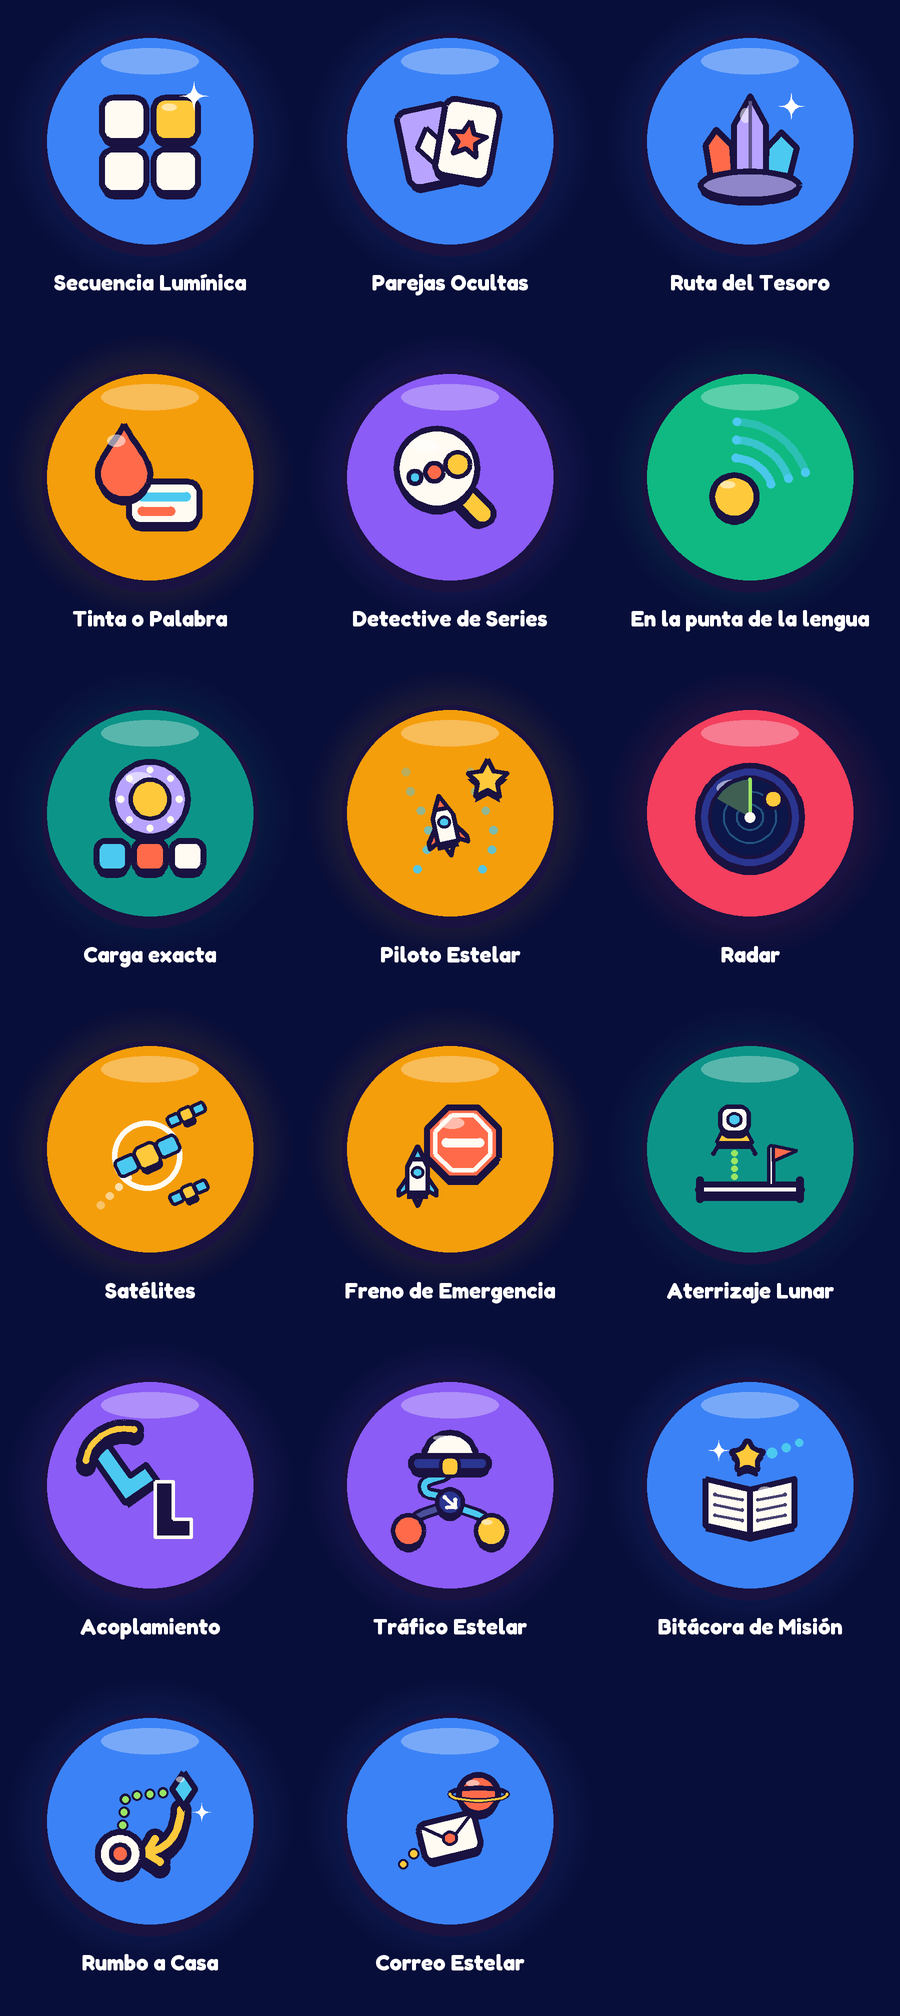
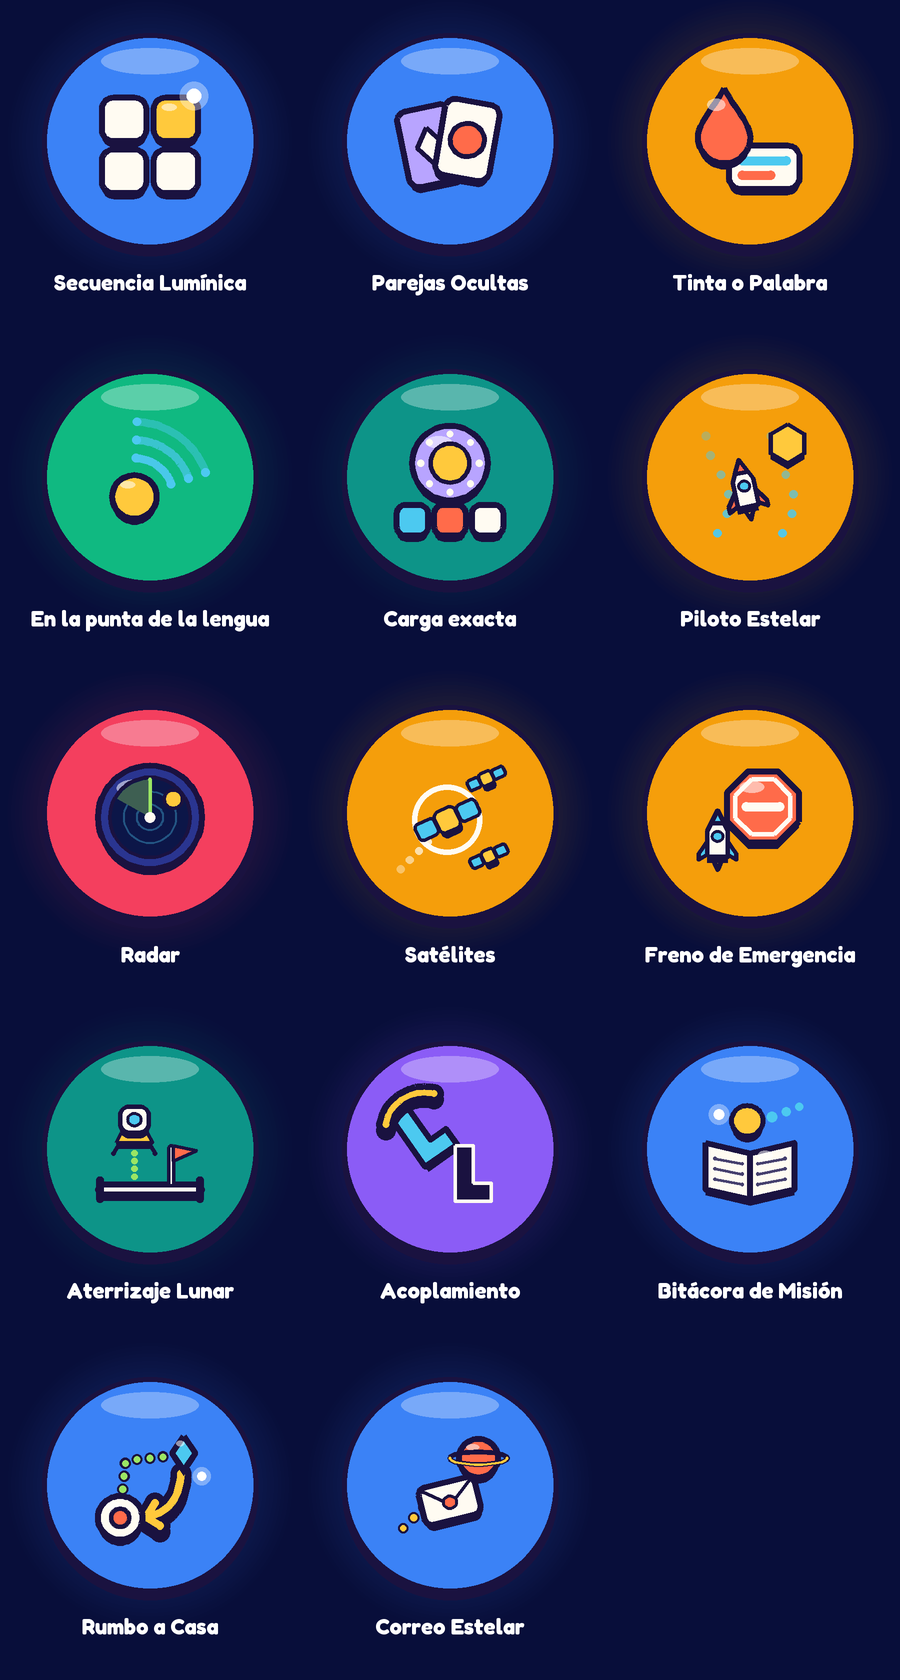
Premios y calificaciones con luceros redondos: resultado, escudo de liga, celebraciones y primer lucero (tarea 36)
ResultStar, el escudo de liga, los destellos de ascenso y logros, el brillo de Nubi y de la tarjeta de compartir pasan a ser redondos; la «primera estrella»
del Primer vuelo es «tu primer lucero». Réplica de íconos actualizada y sin juegos retirados.

diff --git a/app/src/main/java/com/example/games/GameResultScreen.kt b/app/src/main/java/com/example/games/GameResultScreen.kt
@@ -112,8 +112,8 @@ private val TextSoft = Color(0xFFB4BFEA) // secundario sobre el cielo nocturno (
  * nocturno de la app (`CosmosBackground`, visible porque el fondo del tema es transparente), sin tarjetas: la
  * información es texto suelto y objetos, lo tocable es arcilla.
  *
- * Un solo protagonista animado: el puntaje cuenta hasta su valor, luego aparecen las estrellas con rebote y, si
- * te fue bien (2-3 estrellas), una lluvia de destellos. Con "quitar animaciones" del sistema todo aparece quieto.
+ * Un solo protagonista animado: el puntaje cuenta hasta su valor, luego aparecen los luceros con rebote y, si
+ * te fue bien (2-3 luceros), una lluvia de destellos. Con "quitar animaciones" del sistema todo aparece quieto.
  * Atrás = Continuar (comportamiento predecible). Sin promesas de salud en los textos.
  */
 @Composable
@@ -196,7 +196,7 @@ fun GameResultScreen(
       }
     }
 
-    // Protagonista: halo del dominio, destellos, estrellas y el puntaje gigante de arcilla.
+    // Protagonista: halo del dominio, destellos, luceros y el puntaje gigante de arcilla.
     Box(
       modifier = Modifier
         .fillMaxWidth()
@@ -1229,37 +1229,28 @@ private fun ClayNumber(text: String, color: Color, fontSize: TextUnit) {
   }
 }
 
-/** Estrella de 5 puntas de arcilla: sol con borde tinta si se ganó, contorno tenue si no. */
+/** Lucero REDONDO de arcilla (la «estrella» ganada, 4-oct: nada de estrellas con puntas): sol con borde tinta si se ganó, contorno tenue si no. */
 @Composable
 private fun ResultStar(earned: Boolean, modifier: Modifier = Modifier) {
   Canvas(modifier) {
-    val path = starPath(size.width / 2f, size.height / 2f, size.minDimension * 0.48f, size.minDimension * 0.21f, 5)
+    val center = Offset(size.width / 2f, size.height / 2f)
+    val r = size.minDimension * 0.40f
     if (earned) {
-      drawPath(path, Clay.Ink, style = Stroke(width = size.minDimension * 0.12f, join = StrokeJoin.Round))
-      drawPath(path, Clay.Sun)
+      drawCircle(Clay.Sun.copy(alpha = 0.28f), radius = r * 1.22f, center = center)
+      drawCircle(Clay.Ink, radius = r + size.minDimension * 0.06f, center = center)
+      drawCircle(Clay.Sun, radius = r, center = center)
       // Brillo arriba a la izquierda.
-      drawCircle(Color.White.copy(alpha = 0.55f), radius = size.minDimension * 0.07f, center = Offset(size.width * 0.40f, size.height * 0.36f))
+      drawCircle(Color.White.copy(alpha = 0.55f), radius = size.minDimension * 0.08f, center = Offset(size.width * 0.38f, size.height * 0.36f))
     } else {
-      drawPath(path, Color.White.copy(alpha = 0.10f))
-      drawPath(path, Color.White.copy(alpha = 0.30f), style = Stroke(width = size.minDimension * 0.05f, join = StrokeJoin.Round))
+      drawCircle(Color.White.copy(alpha = 0.10f), radius = r, center = center)
+      drawCircle(Color.White.copy(alpha = 0.30f), radius = r, center = center, style = Stroke(width = size.minDimension * 0.05f))
     }
   }
 }
 
-private fun starPath(cx: Float, cy: Float, outer: Float, inner: Float, points: Int): Path = Path().apply {
-  for (i in 0 until points * 2) {
-    val r = if (i % 2 == 0) outer else inner
-    val a = -PI / 2 + i * PI / points
-    val x = cx + (r * cos(a)).toFloat()
-    val y = cy + (r * sin(a)).toFloat()
-    if (i == 0) moveTo(x, y) else lineTo(x, y)
-  }
-  close()
-}
-
 private val BurstColors = listOf(Clay.Sun, Clay.Coral, Clay.Sky, Clay.Grape, Clay.Lime, Color.White)
 
-/** Lluvia de destellos de 4 puntas que salen del centro y se apagan (celebración de 2-3 estrellas). */
+/** Lluvia de destellos REDONDOS que salen del centro y se apagan (celebración de 2-3 luceros). */
 private fun DrawScope.drawBurst(center: Offset, progress: Float, reach: Float) {
   val rnd = Random(7)
   val fade = 1f - progress
@@ -1270,14 +1261,8 @@ private fun DrawScope.drawBurst(center: Offset, progress: Float, reach: Float) {
     val p = Offset(center.x + cos(angle) * d, center.y + sin(angle) * d)
     val s = (10f + rnd.nextFloat() * 16f) * (1f - progress * 0.5f)
     val color = BurstColors[i % BurstColors.size].copy(alpha = fade)
-    val sparkle = Path().apply {
-      moveTo(p.x, p.y - s); lineTo(p.x + s * 0.22f, p.y - s * 0.22f)
-      lineTo(p.x + s, p.y); lineTo(p.x + s * 0.22f, p.y + s * 0.22f)
-      lineTo(p.x, p.y + s); lineTo(p.x - s * 0.22f, p.y + s * 0.22f)
-      lineTo(p.x - s, p.y); lineTo(p.x - s * 0.22f, p.y - s * 0.22f)
-      close()
-    }
-    drawPath(sparkle, color)
+    drawCircle(color.copy(alpha = color.alpha * 0.35f), s * 0.9f, p)
+    drawCircle(color, s * 0.45f, p)
   }
 }
 

diff --git a/app/src/main/java/com/example/ui/screens/FirstFlightScreen.kt b/app/src/main/java/com/example/ui/screens/FirstFlightScreen.kt
@@ -573,7 +573,7 @@ private fun GameCardPage(index: Int, s: FlightState, a: FlightActions) {
 
 /**
  * «Tu punto de partida»: las 4 áreas con su etapa en palabras, «tu fuerte hoy» y «donde más vamos a jugar» (en TEXTO, no solo color), y,
- * la primera vez, la primera estrella de Nubi y el día 1 de la racha. «No es un examen».
+ * la primera vez, el primer lucero de Nubi y el día 1 de la racha. «No es un examen».
  */
 @Composable
 private fun StartingPointPage(s: FlightState, hi: String, a: FlightActions) {
@@ -598,7 +598,7 @@ private fun StartingPointPage(s: FlightState, hi: String, a: FlightActions) {
           Text("¡Empezó tu racha! Vuelve mañana para el día 2.", color = Color.White, fontFamily = AppFamily, fontWeight = FontWeight.SemiBold, fontSize = 18.sp, lineHeight = 24.sp, modifier = Modifier.weight(1f))
         }
       } else {
-        Sub("Cada partida hace nacer una estrella en el cielo de Nubi. Tu primera te espera en Hoy.")
+        Sub("Cada partida hace nacer un lucero en el cielo de Nubi. Tu primera te espera en Hoy.")
       }
     }
   }
@@ -625,7 +625,7 @@ private fun AreaLine(r: FirstFlight.AreaRow) {
 }
 
 /**
- * «Nace tu primera estrella»: Nubi celebra y la primera estrella aparece en su cielo (un rebote corto). Con «quitar animaciones» solo
+ * «Nace tu primer lucero»: Nubi celebra y el primer lucero aparece en su cielo (un rebote corto). Con «quitar animaciones» solo
  * se funde y queda quieta.
  */
 @Composable
@@ -649,27 +649,18 @@ private fun FirstStar() {
           .size(64.dp)
           .scale(grow.value.coerceAtLeast(0.01f))
           .alpha(fade.value)
-          .semantics { contentDescription = "Tu primera estrella" }
+          .semantics { contentDescription = "Tu primer lucero" }
       ) {
         val c = center
-        val outer = size.minDimension * 0.46f
-        val inner = outer * 0.46f
-        val star = Path().apply {
-          for (i in 0 until 10) {
-            val r = if (i % 2 == 0) outer else inner
-            val ang = -PI / 2 + i * PI / 5
-            val p = Offset(c.x + (r * cos(ang)).toFloat(), c.y + (r * sin(ang)).toFloat())
-            if (i == 0) moveTo(p.x, p.y) else lineTo(p.x, p.y)
-          }
-          close()
-        }
-        drawPath(star, Clay.Ink, style = Stroke(10f, join = StrokeJoin.Round))
-        drawPath(star, Clay.Sun)
-        drawPath(star, Clay.Ink, style = Stroke(5f, join = StrokeJoin.Round))
+        val r = size.minDimension * 0.34f
+        drawCircle(Clay.Sun.copy(alpha = 0.28f), r * 1.35f, c)
+        drawCircle(Clay.Ink, r + 5f, c)
+        drawCircle(Clay.Sun, r, c)
+        drawCircle(Color.White.copy(alpha = 0.55f), r * 0.22f, Offset(c.x - r * 0.35f, c.y - r * 0.38f))
       }
     }
-    Text("¡Nace tu primera estrella!", color = Clay.Sun, fontFamily = AppFamily, fontWeight = FontWeight.Bold, fontSize = 20.sp, textAlign = TextAlign.Center)
-    Text("Cada partida hace nacer una estrella en el cielo de Nubi.", color = OnNightDim, fontFamily = AppFamily, fontSize = 18.sp, lineHeight = 24.sp, textAlign = TextAlign.Center)
+    Text("¡Nace tu primer lucero!", color = Clay.Sun, fontFamily = AppFamily, fontWeight = FontWeight.Bold, fontSize = 20.sp, textAlign = TextAlign.Center)
+    Text("Cada partida hace nacer un lucero en el cielo de Nubi.", color = OnNightDim, fontFamily = AppFamily, fontSize = 18.sp, lineHeight = 24.sp, textAlign = TextAlign.Center)
   }
 }
 

diff --git a/app/src/main/java/com/example/ui/components/LeagueShield.kt b/app/src/main/java/com/example/ui/components/LeagueShield.kt
@@ -65,21 +65,15 @@ private fun shieldPath(w: Float, h: Float, inset: Float): Path {
   }
 }
 
-private fun DrawScope.drawStar(center: Offset, radius: Float, color: Color) {
-  val path = Path()
-  for (i in 0 until 10) {
-    val rr = if (i % 2 == 0) radius else radius * 0.45f
-    val a = -Math.PI / 2 + i * Math.PI / 5
-    val p = Offset(center.x + (rr * cos(a)).toFloat(), center.y + (rr * sin(a)).toFloat())
-    if (i == 0) path.moveTo(p.x, p.y) else path.lineTo(p.x, p.y)
-  }
-  path.close()
-  drawPath(path, color)
+/** Un lucero REDONDO (4-oct: antes era una estrella de 5 puntas): un disco con un halo suave. */
+private fun DrawScope.drawLucero(center: Offset, radius: Float, color: Color) {
+  drawCircle(color.copy(alpha = color.alpha * 0.25f), radius * 1.25f, center)
+  drawCircle(color, radius * 0.82f, center)
 }
 
 /**
  * Escudo de liga dibujado por codigo (arte propio): borde metalico, cara con degradado, bisel, brillo y
- * estrellas segun la division (Maestro lleva corona de 3 estrellas). [pips] = estrellas a mostrar (1..5).
+ * luceros segun la division (Maestro lleva corona de 3 luceros). [pips] = luceros a mostrar (1..5).
  */
 @Composable
 fun LeagueShield(tier: RankTier, modifier: Modifier = Modifier, size: Dp = 72.dp, pips: Int = 0, glow: Boolean = false) {
@@ -124,18 +118,18 @@ fun DrawScope.drawLeagueShield(tier: RankTier, pips: Int = 0, glow: Boolean = fa
     },
     Color.White.copy(alpha = 0.35f)
   )
-  // Emblema: estrella central grande
+  // Emblema: lucero central grande
   val c = Offset(w / 2, h * 0.47f)
-  drawStar(Offset(c.x, c.y + w * 0.012f), w * 0.20f, pal.dark.copy(alpha = 0.55f))
-  drawStar(c, w * 0.20f, Color.White.copy(alpha = 0.92f))
-  // Divisiones: pequenas estrellas bajo el emblema
+  drawLucero(Offset(c.x, c.y + w * 0.012f), w * 0.20f, pal.dark.copy(alpha = 0.55f))
+  drawLucero(c, w * 0.20f, Color.White.copy(alpha = 0.92f))
+  // Divisiones: pequenos luceros bajo el emblema
   val n = pips.coerceIn(0, 5)
   if (n > 0) {
     val gap = w * 0.13f
     val startX = w / 2 - gap * (n - 1) / 2f
-    for (i in 0 until n) drawStar(Offset(startX + i * gap, h * 0.72f), w * 0.05f, Color.White.copy(alpha = 0.95f))
+    for (i in 0 until n) drawLucero(Offset(startX + i * gap, h * 0.72f), w * 0.05f, Color.White.copy(alpha = 0.95f))
   }
 }
 
-/** Division 1..5 -> estrellas encendidas (5 = recien ascendido, 1 = a punto de ascender, como en el ladder). */
+/** Division 1..5 -> luceros encendidos (5 = recien ascendido, 1 = a punto de ascender, como en el ladder). */
 fun GameRankInfo.pipCount(): Int = if (tier == RankTier.MAESTRO) 3 else (6 - (division ?: 5)).coerceIn(1, 5)

diff --git a/app/src/main/java/com/example/ui/components/LeaguePromotionOverlay.kt b/app/src/main/java/com/example/ui/components/LeaguePromotionOverlay.kt
@@ -192,7 +192,7 @@ fun LeaguePromotionOverlay(
               val d = reach * speed * (1f - (1f - b) * (1f - b))
               val p = Offset(c.x + cos(ang) * d, c.y + sin(ang) * d)
               val r = s.dp.toPx() * (1f - b * 0.5f)
-              drawFourPointStar(p, r, sparkColors[i % sparkColors.size].copy(alpha = 1f - b))
+              drawGlint(p, r, sparkColors[i % sparkColors.size].copy(alpha = 1f - b))
             }
           }
           if (flash.value > 0f) {
@@ -304,14 +304,8 @@ fun LeaguePromotionOverlay(
   }
 }
 
-internal fun androidx.compose.ui.graphics.drawscope.DrawScope.drawFourPointStar(c: Offset, r: Float, color: Color) {
-  val p = Path().apply {
-    moveTo(c.x, c.y - r)
-    quadraticBezierTo(c.x, c.y, c.x + r, c.y)
-    quadraticBezierTo(c.x, c.y, c.x, c.y + r)
-    quadraticBezierTo(c.x, c.y, c.x - r, c.y)
-    quadraticBezierTo(c.x, c.y, c.x, c.y - r)
-    close()
-  }
-  drawPath(p, color)
+/** Destello REDONDO de las celebraciones (4-oct: antes era una estrella de 4 puntas): un núcleo con su halo. */
+internal fun androidx.compose.ui.graphics.drawscope.DrawScope.drawGlint(c: Offset, r: Float, color: Color) {
+  drawCircle(color.copy(alpha = color.alpha * 0.35f), r, c)
+  drawCircle(color, r * 0.5f, c)
 }

diff --git a/app/src/main/java/com/example/ui/components/NubiHome.kt b/app/src/main/java/com/example/ui/components/NubiHome.kt
@@ -111,14 +111,9 @@ private fun DrawScope.drawHalo(breath: Float) {
   }
 }
 
-/** Destello de 4 puntas con lados curvos. */
+/** Destello REDONDO (4-oct: antes era de 4 puntas): un disco chico. */
 private fun sparkle(c: Offset, r: Float): Path = Path().apply {
-  moveTo(c.x, c.y - r)
-  quadraticTo(c.x, c.y, c.x + r, c.y)
-  quadraticTo(c.x, c.y, c.x, c.y + r)
-  quadraticTo(c.x, c.y, c.x - r, c.y)
-  quadraticTo(c.x, c.y, c.x, c.y - r)
-  close()
+  addOval(androidx.compose.ui.geometry.Rect(c.x - r * 0.6f, c.y - r * 0.6f, c.x + r * 0.6f, c.y + r * 0.6f))
 }
 
 // ------------------------------------------------------------------ Hoy: Nubi al centro y sus 4 áreas

diff --git a/app/src/main/java/com/example/ui/components/ShareCard.kt b/app/src/main/java/com/example/ui/components/ShareCard.kt
@@ -193,14 +193,7 @@ object ShareCard {
   }
 
   private fun DrawScope.sparkle(c: Offset, r: Float, color: Color) {
-    val p = Path().apply {
-      moveTo(c.x, c.y - r)
-      quadraticBezierTo(c.x, c.y, c.x + r, c.y)
-      quadraticBezierTo(c.x, c.y, c.x, c.y + r)
-      quadraticBezierTo(c.x, c.y, c.x - r, c.y)
-      quadraticBezierTo(c.x, c.y, c.x, c.y - r)
-      close()
-    }
-    drawPath(p, color)
+    drawCircle(color.copy(alpha = color.alpha * 0.35f), r, c)
+    drawCircle(color, r * 0.5f, c)
   }
 }

diff --git a/app/src/main/java/com/example/ui/components/ProgressTrendChart.kt b/app/src/main/java/com/example/ui/components/ProgressTrendChart.kt
@@ -18,7 +18,6 @@ import androidx.compose.material.icons.automirrored.filled.TrendingDown
 import androidx.compose.material.icons.automirrored.filled.TrendingFlat
 import androidx.compose.material.icons.automirrored.filled.TrendingUp
 import androidx.compose.material.icons.filled.Info
-import androidx.compose.material.icons.filled.Star
 import androidx.compose.material.icons.filled.TouchApp
 import androidx.compose.material3.*
 import androidx.compose.runtime.*

diff --git a/app/src/main/java/com/example/ui/components/AchievementOverlay.kt b/app/src/main/java/com/example/ui/components/AchievementOverlay.kt
@@ -157,7 +157,7 @@ fun AchievementOverlay(
           if (b > 0f && b < 1f) {
             sparks.forEachIndexed { i, (ang, speed, s) ->
               val d = reach * speed * (1f - (1f - b) * (1f - b))
-              drawFourPointStar(
+              drawGlint(
                 Offset(c.x + cos(ang) * d, c.y + sin(ang) * d),
                 s.dp.toPx() * (1f - b * 0.5f),
                 sparkColors[i % sparkColors.size].copy(alpha = 1f - b)

diff --git a/tools/previews/iconos_juegos.py b/tools/previews/iconos_juegos.py
@@ -7,9 +7,9 @@ FB=ROOT+'/unity/NeuroVidaCore/Assets/Resources/Fonts/Fredoka-Bold.ttf'
 FS=ROOT+'/unity/NeuroVidaCore/Assets/Resources/Fonts/Fredoka-SemiBold.ttf'
 INK=(26,18,64); CREAM=(255,251,242); SUN=(255,201,60); CORAL=(255,107,74); SKY=(76,201,240); GRAPE=(184,164,255); WHITE=(255,255,255)
 DOM={'memoria':(59,130,246),'atencion':(245,158,11),'razonamiento':(139,92,246),'lenguaje':(16,185,129),'calculo':(13,148,136),'velocidad':(244,63,94)}
-GAMES=[('secuencia','Secuencia Lumínica','memoria'),('parejas','Parejas Ocultas','memoria'),('rutatesoro','Ruta del Tesoro','memoria'),
-       ('stroop','Tinta o Palabra','atencion'),('series','Detective de Series','razonamiento'),
-       ('anagramas','En la punta de la lengua','lenguaje'),('calculo','Carga exacta','calculo'),('piloto','Piloto Estelar','atencion'),('radar','Radar','velocidad'),('satelites','Satélites','atencion'),('freno','Freno de Emergencia','atencion'),('aterrizaje','Aterrizaje Lunar','calculo'),('acoplamiento','Acoplamiento','razonamiento'),('trafico','Tráfico Estelar','razonamiento'),('bitacora','Bitácora de Misión','memoria'),('rumbo','Rumbo a Casa','memoria'),('correo','Correo Estelar','memoria')]
+GAMES=[('secuencia','Secuencia Lumínica','memoria'),('parejas','Parejas Ocultas','memoria'),
+       ('stroop','Tinta o Palabra','atencion'),
+       ('anagramas','En la punta de la lengua','lenguaje'),('calculo','Carga exacta','calculo'),('piloto','Piloto Estelar','atencion'),('radar','Radar','velocidad'),('satelites','Satélites','atencion'),('freno','Freno de Emergencia','atencion'),('aterrizaje','Aterrizaje Lunar','calculo'),('acoplamiento','Acoplamiento','razonamiento'),('bitacora','Bitácora de Misión','memoria'),('rumbo','Rumbo a Casa','memoria'),('correo','Correo Estelar','memoria')]
 S=6  # px por unidad dentro del ícono (ícono de 600 px, se reduce al final)
 
 class Icon:
@@ -58,8 +58,12 @@ def drop(cx,cy,r):
     out+=cub((cx,cy+r),(cx-r*.56,cy+r),(cx-r,cy+r*.56),(cx-r,cy)); out+=cub((cx-r,cy),(cx-r,cy-r*.55),(cx-r*.35,cy-r*1.2),p0)
     return out
 def sparkle(ic,cx,cy,r,col):
-    c=(cx,cy); pts=[(cx,cy-r)]+quad((cx,cy-r),c,(cx+r,cy))+quad((cx+r,cy),c,(cx,cy+r))+quad((cx,cy+r),c,(cx-r,cy))+quad((cx-r,cy),c,(cx,cy-r))
-    ic.d.polygon(ic.poly(pts),fill=col)
+    # brillo REDONDO (4-oct: antes un destello de 4 puntas): un halo suave y un núcleo
+    ov=Image.new('RGBA',ic.im.size,(0,0,0,0)); od=ImageDraw.Draw(ov)
+    x,y=ic.P(cx,cy); rr=r*ic.k; halo=tuple(col[:3])+(90,)
+    od.ellipse([x-rr,y-rr,x+rr,y+rr],fill=halo); od.ellipse([x-rr/2,y-rr/2,x+rr/2,y+rr/2],fill=tuple(col[:3])+(255,))
+    ic.im.alpha_composite(ov); ic.d=ImageDraw.Draw(ic.im)
+def hexagon(cx,cy,r): return [(cx+r*math.cos(math.radians(-90+60*i)),cy+r*math.sin(math.radians(-90+60*i))) for i in range(6)]
 def plus(cx,cy,l,b): return [rrect(cx-l/2,cy-b/2,l,b,b/2),rrect(cx-b/2,cy-l/2,b,l,b/2)]
 
 def draw(ic,gid):
@@ -68,7 +72,7 @@ def draw(ic,gid):
         sparkle(ic,84,12,11,WHITE)
     elif gid=='parejas':
         ic.rot.append((-12,36,52)); ic.clay(rrect(14,20,42,60,8),GRAPE); ic.clay([(35,36),(45,50),(35,64),(25,50)],CREAM,border=3.5,shadow=False); ic.rot.pop()
-        ic.rot.append((10,64,48)); ic.clay(rrect(42,16,42,60,8),CREAM); ic.clay(star(63,46,15,7,5),CORAL,border=4,shadow=False); ic.rot.pop()
+        ic.rot.append((10,64,48)); ic.clay(rrect(42,16,42,60,8),CREAM); ic.clay(circ(63,46,13),CORAL,border=4,shadow=False); ic.rot.pop()
     elif gid=='rutatesoro':
         ic.clay([(20,76),(16,50),(24,38),(36,50),(38,78)],CORAL)
         ic.clay([(62,78),(63,52),(74,40),(86,52),(80,76)],SKY)
@@ -120,7 +124,7 @@ def draw(ic,gid):
         ic.clay(tf([(40.2,66.8),(40.2,41.6),(50.0,22.0),(59.8,41.6),(59.8,66.8)]),CREAM,border=3.5)
         ic.clay(tf([(43.7,34.6),(50.0,22.0),(56.3,34.6)]),CORAL,border=3.5,shadow=False)
         ic.clay(tf(circ(50,47.2,5.0)),SKY,border=2.5,shadow=False)
-        ic.clay(star(79,21,16,8,5),SUN,border=3.5)
+        ic.clay(hexagon(79,21,15),SUN,border=3.5)
     elif gid=='radar':
         LIME=(155,229,100)
         ic.clay(circ(50,50,40),(42,53,144),gloss=True)
@@ -194,7 +198,7 @@ def draw(ic,gid):
             ic.stroke([(23,54+8*k),(44,58+8*k)],(70,64,110),2.5); ic.stroke([(56,58+8*k),(77,54+8*k)],(70,64,110),2.5)
         for (x,y,r) in [(88,14,3),(78,18,3.5),(67,22,4)]:
             q=ic.P(x,y); rr=r*ic.k; ic.d.ellipse([q[0]-rr,q[1]-rr,q[0]+rr,q[1]+rr],fill=SKY)
-        ic.clay(star(48,25,15,7,5,True),SUN,border=4)
+        ic.clay(circ(48,25,12),SUN,border=4)
         sparkle(ic,26,20,8,WHITE)
     elif gid=='rumbo':
         LIME=(155,229,100)

diff --git a/docs/simbolos-neutros.md b/docs/simbolos-neutros.md
@@ -19,7 +19,9 @@ hexágono, una gota o una ola están bien. Lámina para ver el resultado: [`docs
 | `SparkleSprite` (el «brillo» de cuenta regresiva, celebraciones, racha y cielo) y el brillo de La estrella intrusa | destello de 4 puntas | brillo redondo (núcleo con halo) |
 | Íconos de la app (`GameIcon.kt`): Parejas, Piloto, La estrella intrusa, Aterrizaje y el «brillo» (`sparkle`) | estrellas de 5 y 4 puntas | lucero redondo / hexágono / brillo redondo |
 
-## Lo que NO se cambió (pendiente de decisión)
+## Premios y calificaciones (tarea 36, aprobado por Ricardo el 4-oct)
 
-Son estrellas de 5 o 4 puntas que funcionan como **premio o calificación**, no como símbolo de un objeto: las estrellas ganadas de la pantalla de resultado (`ResultStar`), la estrella del escudo de liga (`LeagueShield`), el destello de 4 puntas de
-la celebración de ascenso de liga (`LeaguePromotionOverlay`) y la «primera estrella» del inicio (`FirstStar`). Si Ricardo quiere que también sean redondas, es otra tarea.
+También pasaron a **luceros redondos**, para que toda la app hable el mismo lenguaje: las estrellas ganadas de la pantalla de resultado (`ResultStar`) y su lluvia de destellos; el emblema y los puntos de división del escudo de liga (`LeagueShield`);
+los destellos de las celebraciones de ascenso de liga y de logros (`drawGlint`, antes `drawFourPointStar`); el brillo de Nubi en Hoy (`NubiHome`) y de la tarjeta para compartir (`ShareCard`); y la «primera estrella» del Primer vuelo, que ahora es
+**«tu primer lucero»** en el texto, la descripción para lectores de pantalla y el dibujo. «Juego estrella» (los juegos con medida propia) y «La estrella intrusa» (nombre de un juego) NO son símbolos y se quedan igual.
+La réplica `tools/previews/iconos_juegos.py` se actualizó con los íconos nuevos de Parejas, Piloto y Aterrizaje (el de La estrella intrusa no está en esa réplica) y se quitaron de su lámina los juegos retirados; lámina: `docs/previews/iconos-juegos.png`.
